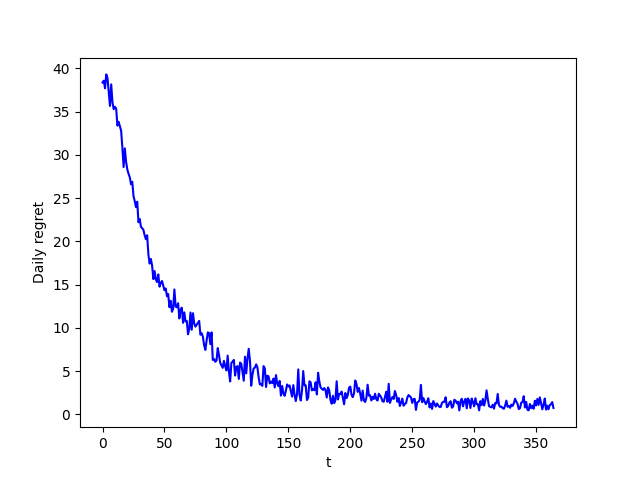
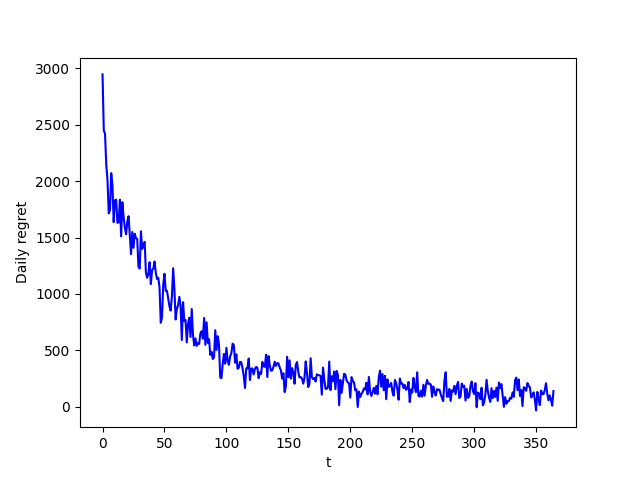
added plot of per-client update experiments

diff --git a/step3/config.py b/step3/config.py
@@ -2,8 +2,8 @@ import numpy as np
 import utils
 
 T = 365  # Time horizon
-N_EXPS = 1  # Number of experiments
-N_ARMS = 10  # Number of different candidate prices
+N_EXPS = 50  # Number of experiments
+N_ARMS = 50  # Number of different candidate prices
 NUM_CUSTOMERS = np.array([20, 40, 10, 30])  # Mean of the number of total daily customers per class
 
 MARGINS_1 = np.linspace(150, 250, N_ARMS)
@@ -31,16 +31,16 @@ CR2 = np.array([[0.2, 0.4, 0.3, 0.3],  # Junior Professionals
 weighted_averages = []
 
 for i, arm in enumerate(MARGINS_1):  # For every price_1
-    cr = 0
+    arm_expected_profit = 0
     for j, n_customers in enumerate(NUM_CUSTOMERS):  # For every customer class
         exp_buyers_item1 = n_customers * CR1[i][j]
         margin1 = arm
         promo_assigment_prob = MATCHING[j, :] / n_customers
         margin2 = np.multiply(MARGINS_2, CR2[j, :])
 
-        cr += exp_buyers_item1 * (margin1 + np.dot(promo_assigment_prob, margin2))
+        arm_expected_profit += exp_buyers_item1 * (margin1 + np.dot(promo_assigment_prob, margin2))
     #cr /= sum(NUM_CUSTOMERS)
-    weighted_averages.append(cr)
+    weighted_averages.append(arm_expected_profit)
 
 OPT = np.max(weighted_averages)
 
